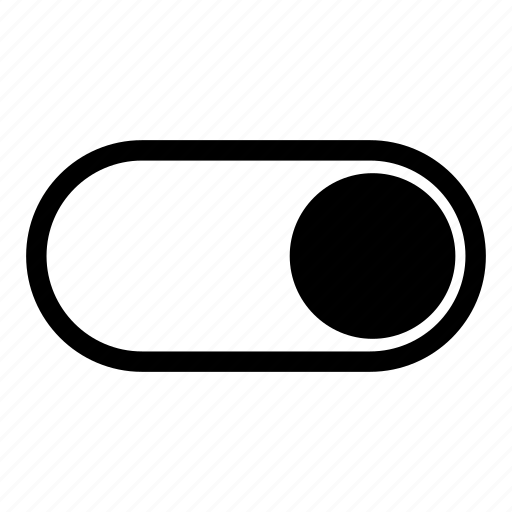
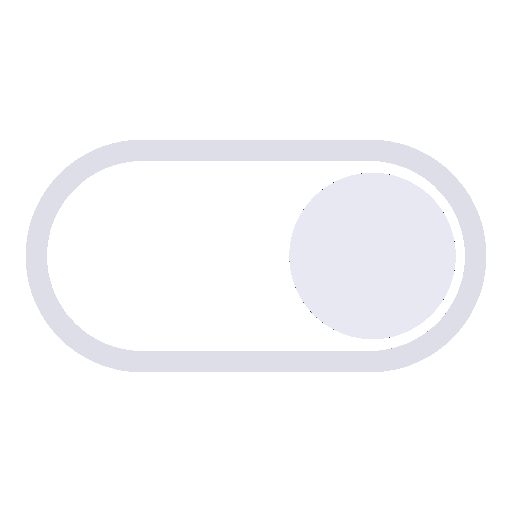
Add files via upload

Changed region(s): [[0.0312, 0.25, 0.9688, 0.75]]

diff --git a/gui.py b/gui.py
@@ -22,15 +22,16 @@ rock = rock_image.get_rect(center=(0 + gap, height//2 - image_height//2))
 scissors_image = image = pygame.transform.scale(pygame.image.load(
     os.path.join('gui/Assets', 'scissors_image.png')), (image_width, image_height)).convert_alpha()
 scissors = scissors_image.get_rect(center=(width - gap, height//2 - image_height//2))
+mode_width, mode_height = 100, 100
 dark_mode_image = pygame.transform.scale(pygame.image.load(
-    os.path.join('gui/Assets', 'moon.png')), (image_width, image_height)).convert_alpha()
+    os.path.join('gui/Assets', 'moon.png')), (mode_width, mode_height)).convert_alpha()
 light_mode_image = pygame.transform.scale(pygame.image.load(
-    os.path.join('gui/Assets', 'sun.png')), (image_width, image_height)).convert_alpha()
-dark_mode = dark_mode_image.get_rect(center=(width - image_width, height - image_height))
-light_mode = light_mode_image.get_rect(center=(width - image_width, height - image_height))
+    os.path.join('gui/Assets', 'sun.png')), (mode_width, mode_height)).convert_alpha()
+dark_mode = dark_mode_image.get_rect(center=(width - mode_width//1.5, height - mode_height))
+light_mode = light_mode_image.get_rect(center=(width - mode_width//1.5, height - mode_height))
 
-white = (255,255,255)
-dark = (33,33,33)
+white = (228,229,241)
+dark = (37,39,60)
 black = (0,0,0)
 
 pygame.display.set_icon(icon)
@@ -54,7 +55,7 @@ def draw():
     win.blit(rock_image,rock)
     win.blit(scissors_image, scissors)
     f1_size = 150
-    f1 = Font(None, black, f1_size, "GAME",(width//2 - f1_size, 0))
+    f1 = Font(None, black, f1_size, "",(width//2 - f1_size, 0))
     f1.render()
     pygame.display.update()
 
@@ -68,7 +69,7 @@ def mode(modestr):
     draw()
 
 clock = pygame.time.Clock()
-modestr = "light"
+modestr = "dark"
 while run:
     for event in pygame.event.get():
         if event.type == pygame.QUIT:
